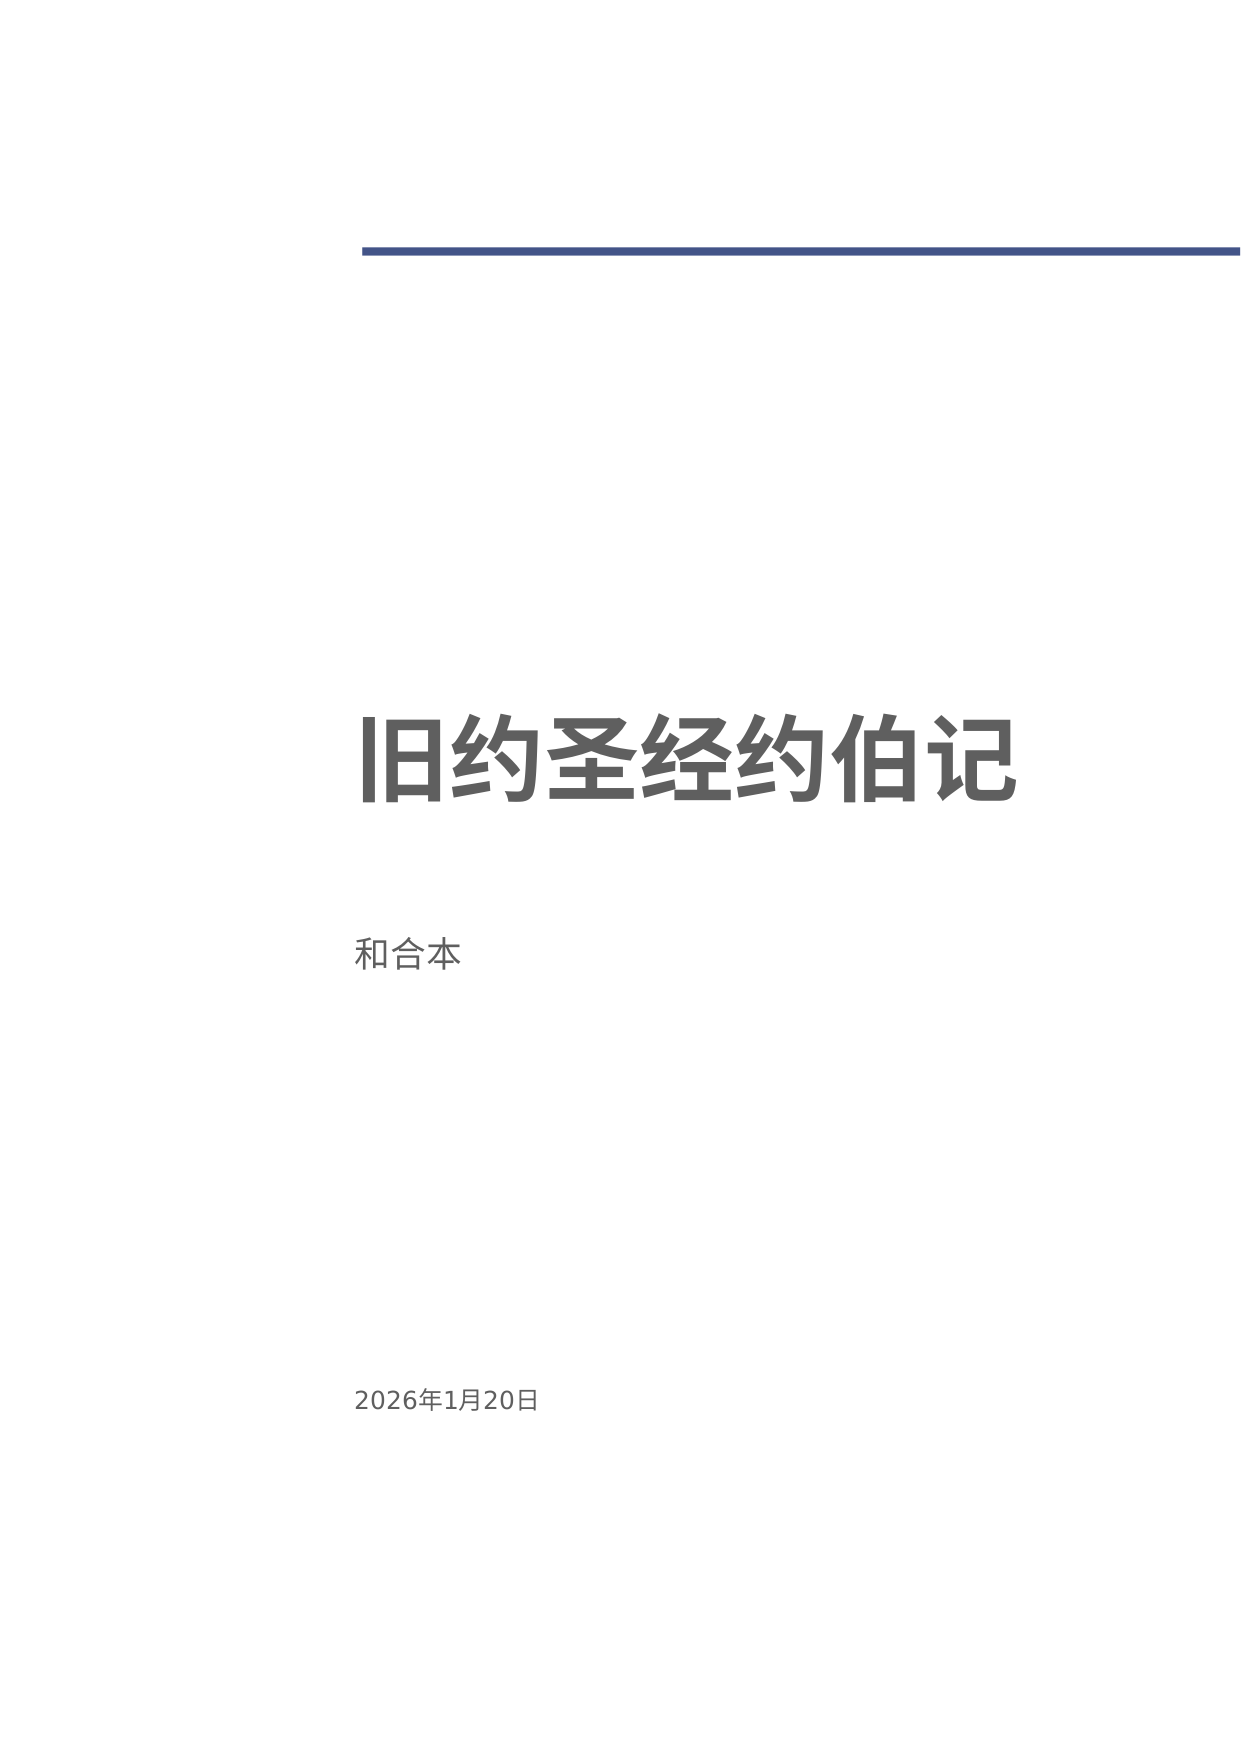
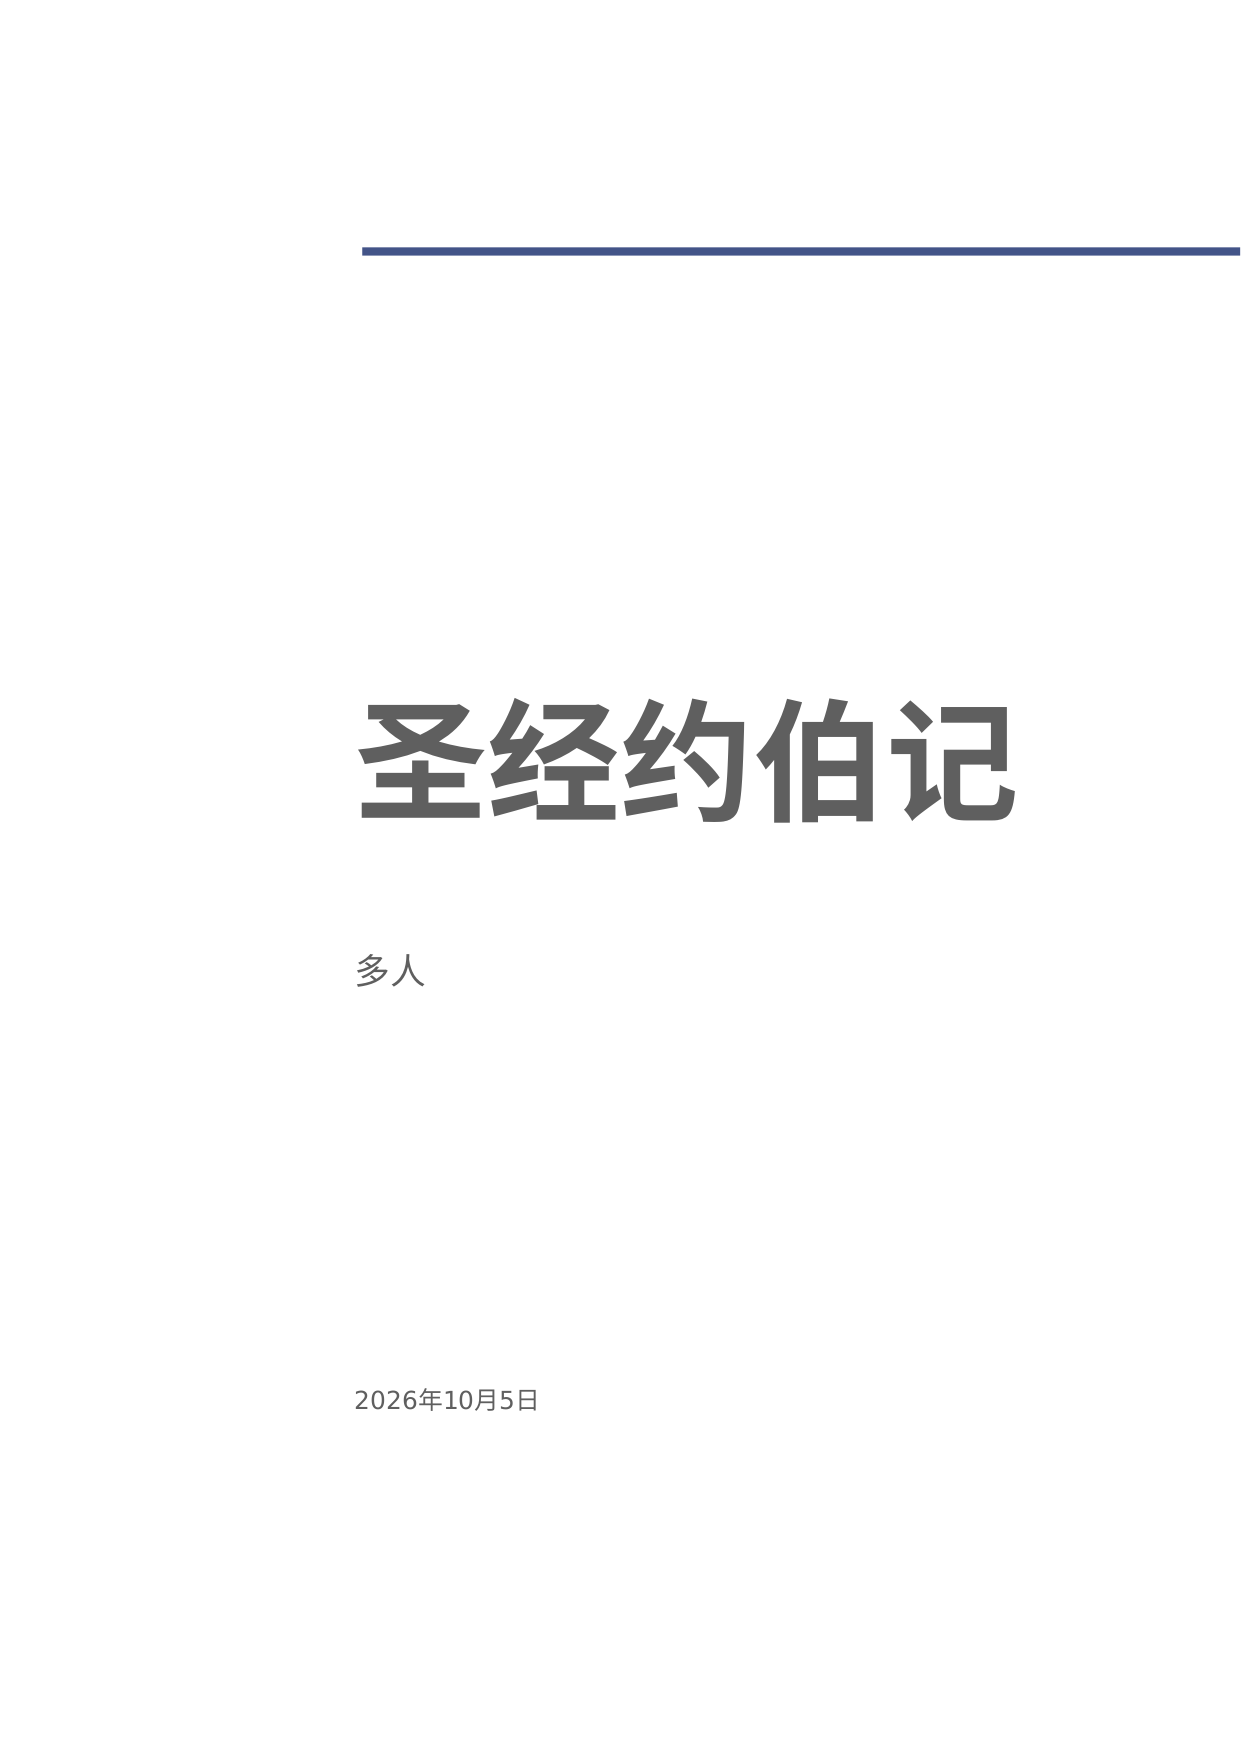
update

Changed region(s): [[0.2756, 0.4002, 0.8268, 0.4926], [0.2756, 0.5234, 0.3674, 0.5542], [0.3674, 0.7697, 0.3981, 0.8005]]

diff --git a/旧约圣经约伯记/main.tex b/旧约圣经约伯记/main.tex
@@ -4,11 +4,11 @@
 \usepackage{mybookcover}
 
 
-\title{旧约圣经约伯记}
-\author{和合本}
+\title{圣经约伯记}
+\author{多人}
 \hypersetup{
-    pdftitle={旧约圣经约伯记},
-    pdfauthor={和合本},
+    pdftitle={圣经约伯记},
+    pdfauthor={多人},
     pdfcreator={Wander},
     pdfsubject={生活},
 }
@@ -951,15 +951,16 @@
 \chapter{第19章}
 约伯回答说：
 
-你们搅扰我的心，用言语压碎我，要到几时呢。
+你们要到几时才肯罢休？一直折磨我的灵魂，这样用言语击碎我。
 
-你们这十次羞辱我。你们苦待我也不以为耻。
+你们十次羞辱于我，并无半点羞愧，待我如同路人。
 
-果真我有错，这错乃是在我。
+就算真的我已误入歧途，我的过失我自当待。
 
-你们果然要向我夸大，以我的羞辱为证指责我。
+倘若你们真要向我自高自大，以我的羞辱来指控我，
 
-就该知道是神倾覆我，用网罗围绕我。
+就该知道是上帝歪曲了我，用祂的猎网将我包围。
+
 
 我因委曲呼叫，却不蒙应允。我呼求，却不得公断。
 

diff --git a/旧约圣经约伯记/book_cover.tex b/旧约圣经约伯记/book_cover.tex
@@ -6,8 +6,8 @@
 
 \begin{document}
 
-\title{旧约圣经约伯记}
-\author{和合本}
+\title{圣经约伯记}
+\author{多人}
 
 \makemytitleA
 
